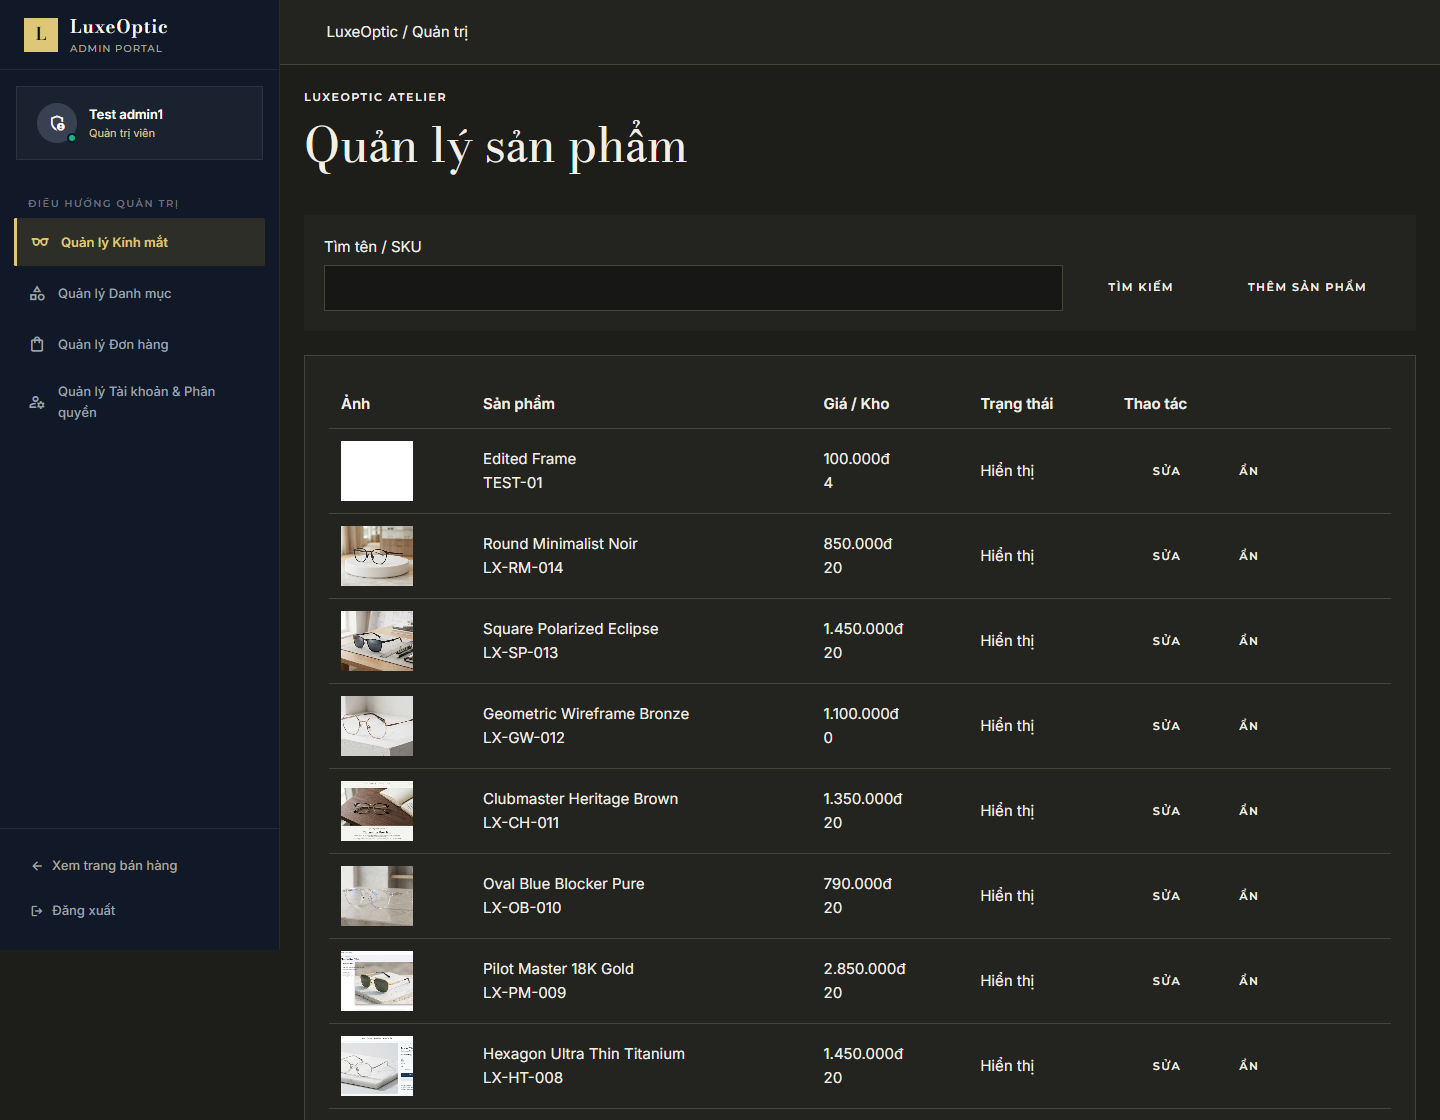
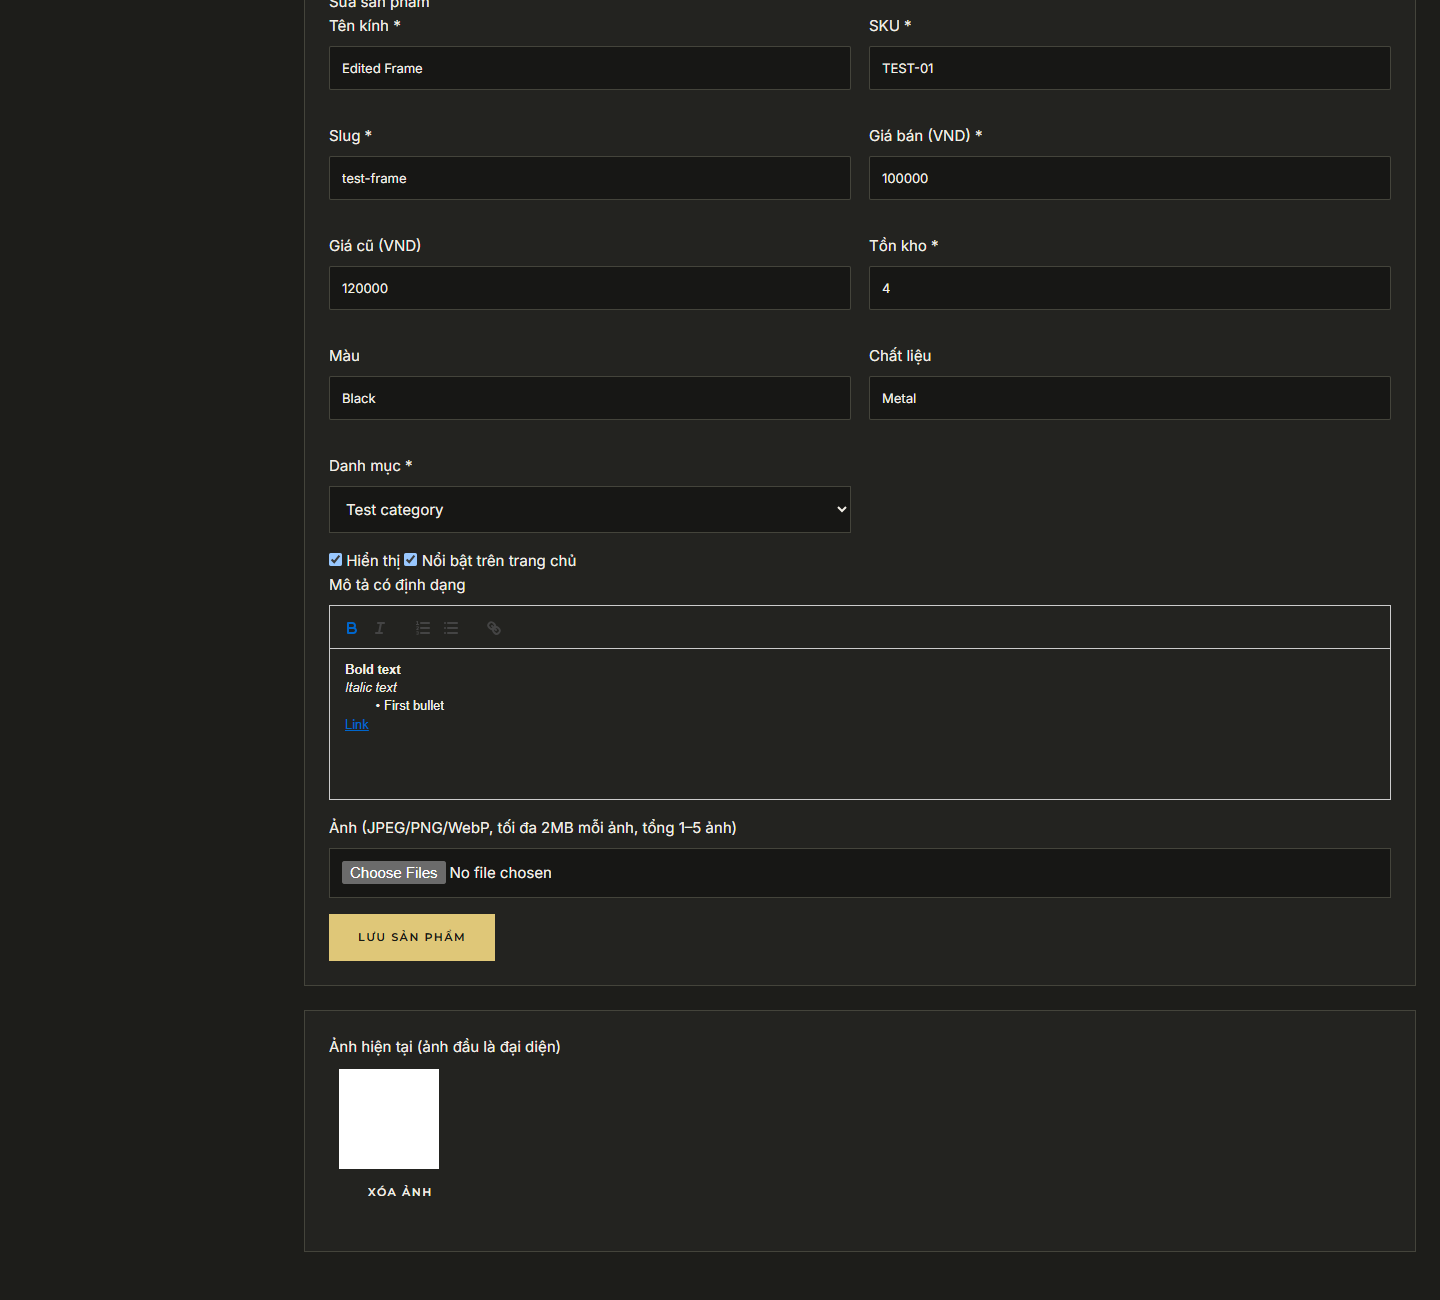
fix: keep Quill toolbar readable and show editor evidence

diff --git a/assets/css/commerce.css b/assets/css/commerce.css
@@ -6,6 +6,6 @@
 @media(max-width:1023px){.catalog-grid{grid-template-columns:repeat(2,minmax(0,1fr))}.commerce-columns{grid-template-columns:1fr}.management-header{flex-wrap:wrap}.detail-grid{gap:20px}}
 @media(max-width:767px){.catalog-grid,.form-grid,.detail-grid{grid-template-columns:1fr}.commerce-main{padding-top:24px}.panel{padding:16px}.section-heading h1{font-size:30px}.management-header nav{gap:12px}.product-info h2{min-height:0}.commerce-table{min-width:560px}.form-actions .btn{flex:1}.filters{padding:12px}}
 
-.admin-main .commerce-main{width:100%;max-width:none;padding:24px;box-sizing:border-box}.admin-main{min-width:0}.editor-shell .ql-toolbar{background:var(--bg-surface-low)}.editor-shell .ql-stroke{stroke:var(--text-primary)}.editor-shell .ql-fill{fill:var(--text-primary)}.editor-shell .ql-picker{color:var(--text-primary)}
+.admin-main .commerce-main{width:100%;max-width:none;padding:24px;box-sizing:border-box}.admin-main{min-width:0}.commerce-main .ql-toolbar{background:var(--bg-surface-low)}.commerce-main .ql-toolbar .ql-stroke{stroke:var(--text-primary)}.commerce-main .ql-toolbar .ql-fill{fill:var(--text-primary)}.commerce-main .ql-toolbar .ql-picker{color:var(--text-primary)}
 
 .commerce-columns > *{min-width:0}@media(max-width:1023px){.commerce-columns{grid-template-columns:minmax(0,1fr)}}
